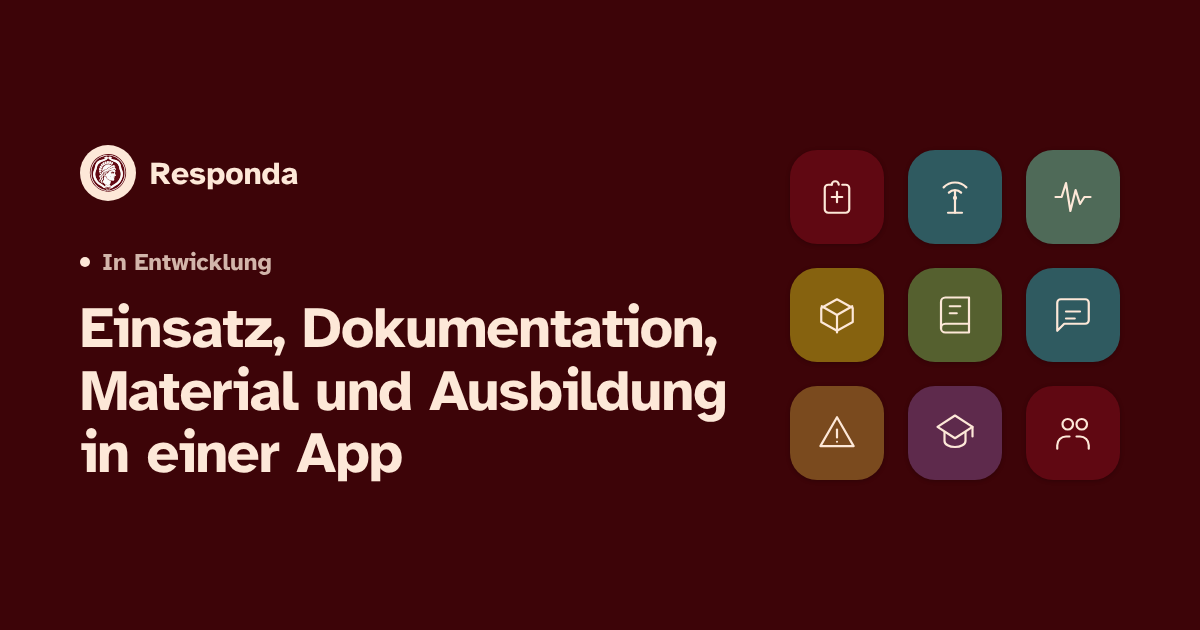
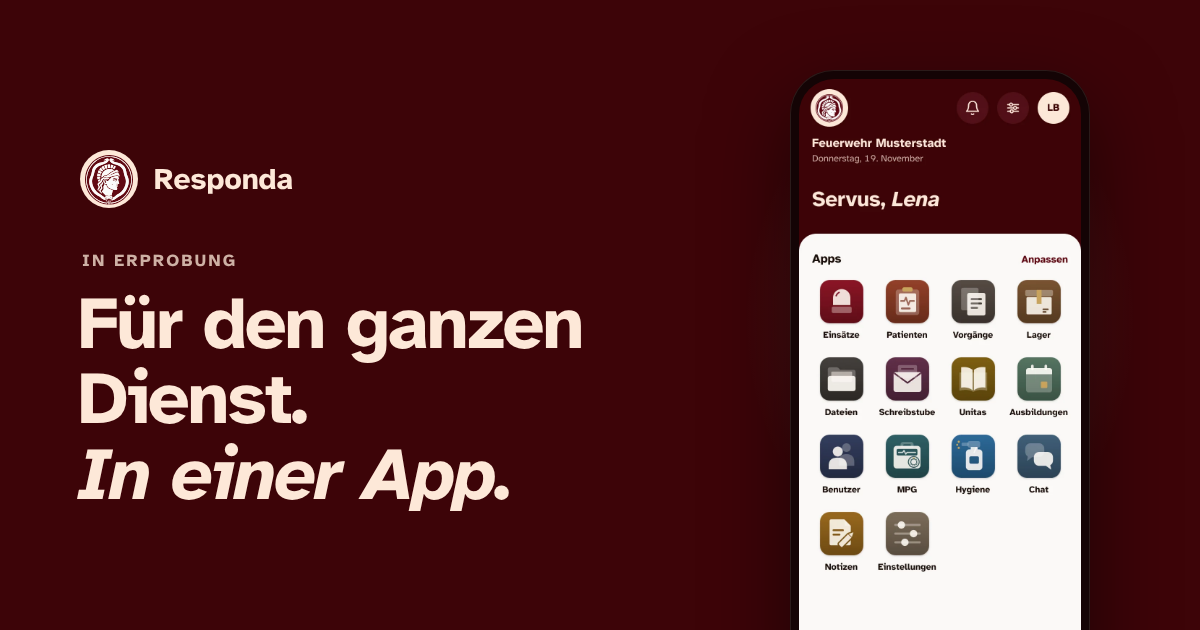
Website: Nachtrag aus der Durchsicht (Anker, Drehen, Querformat, Texte)
- Aufruf mit Anker (/#kontakt aus dem Menü der Unterseiten) landet an
  der Stelle statt oben
- Beim Drehen oder anderem Fenster bleibt die Stelle in der Szene; jede
  andere Größe misst neu (breit/schmal, Höhe)
- Quer und bei großem Zoom: Texte unter Leiste und Kapitelzeile, mit
  Abstand zur Kamera-Aussparung, sonst knapper; lange Wörter getrennt
- Fokus bleibt sichtbar unter der Leiste; die Bühne rollt nicht mehr
  intern; Felder der Unterseiten mit 16 px (kein Zoom beim Antippen)
- Texte richtiggestellt: Medizinprodukte (schwerer Defekt sperrt bis
  behoben und freigegeben), Funkloch, Speicherort
- Neues Vorschaubild beim Teilen (In Erprobung, erfundene Daten)
- Unitas und Entwurfsseite laden die Schrift nicht mehr bei Google

Claude-Session: https://claude.ai/code/session_01Q1UF8jxmgKZQgB564RnhHy

Changed region(s): [[0.6475, 0.0905, 0.9558, 1.0], [0.0617, 0.3921, 0.6167, 0.8143], [0.0617, 0.2111, 0.2467, 0.3317]]

diff --git a/src/pages/landing/stil.ts b/src/pages/landing/stil.ts
@@ -30,6 +30,10 @@ export const RS_CSS = `
 .rs .rs-hell :focus-visible{ outline-color: var(--rs-akzent); }
 .rs-innen{ max-width: 1120px; margin: 0 auto; padding: 0 max(20px, env(safe-area-inset-right)) 0 max(20px, env(safe-area-inset-left)); }
 .rs section[id]{ scroll-margin-top: calc(64px + env(safe-area-inset-top)); }
+/* Was den Fokus bekommt, bleibt sichtbar unter der klebenden Leiste (WCAG 2.4.11) */
+.rs-teil :is(a, button, input, textarea, select), .rs-fuss :is(a, button){ scroll-margin-top: calc(96px + env(safe-area-inset-top)); scroll-margin-bottom: 24px; }
+/* Lange Wörter (Patientendokumentation …) bei großem Zoom trennen statt abschneiden */
+.rs :is(h1, h2, h3, .rs-sz-titel, .rs-ueber, .rs-sz-kapitelname, .rs-sz-schlusssatz, .rs-satz, .rs-lead){ overflow-wrap: break-word; -webkit-hyphens: auto; hyphens: auto; }
 
 /* Maß für die Bildschirmhöhe (scroll.ts): nie fixed */
 .rs-mass{ position: absolute; top: 0; left: 0; width: 100%; height: 100vh; visibility: hidden; pointer-events: none; }
@@ -67,6 +71,7 @@ export const RS_CSS = `
 @media (min-width: 860px){ .rs-links{ display: flex; } }
 .rs-anmelden{ display: flex; align-items: center; min-height: 44px; padding: 0 10px; font-size: 14px; font-weight: 700; color: var(--rs-creme-2); border-radius: 10px; }
 .rs-anmelden:hover{ color: var(--rs-creme); }
+@media (max-width: 299px){ .rs-anmelden{ display: none; } }
 @media (min-width: 860px){ .rs-anmelden{ font-size: 15px; padding: 0 12px; } }
 
 /* Knöpfe */
@@ -103,7 +108,7 @@ export const RS_CSS = `
 @supports (height: 100svh){ .rs-szene{ height: calc(var(--n, 17) * 100svh); } }
 .rs-anker{ position: absolute; left: 0; width: 1px; height: 1px; pointer-events: none; top: calc(var(--ab, 1.86) * 100vh); }
 @supports (height: 100svh){ .rs-anker{ top: calc(var(--ab, 1.86) * 100svh); } }
-.rs-sz-bild{ position: sticky; top: 0; height: 100vh; height: 100svh; overflow: hidden; }
+.rs-sz-bild{ position: sticky; top: 0; height: 100vh; height: 100svh; overflow: hidden; overflow: clip; }
 .rs-sz-held{ position: absolute; inset: 0; z-index: 4; will-change: opacity, transform; }
 .rs-sz-held .rs-held{ padding-top: calc(env(safe-area-inset-top) + 64px + clamp(16px, 4.5vh, 56px)); }
 .rs-sz-held .rs-gross{ width: clamp(84px, 13vh, 150px); height: clamp(84px, 13vh, 150px); }
@@ -162,7 +167,10 @@ export const RS_CSS = `
 .rs-sz-text .rs-lead{ margin-top: 10px; font-size: 16px; }
 .rs-sz-text .rs-ueber{ margin-bottom: 10px; font-size: 12px; letter-spacing: 0.14em; }
 .rs-szene.knapp .rs-sz-text .rs-lead{ display: none; }
-.rs-szene.breit .rs-sz-texte{ top: 0; bottom: 0; left: max(20px, calc(50% - 540px)); right: auto; width: min(44vw, 500px); align-items: center; }
+.rs-szene.breit .rs-sz-texte{ top: calc(env(safe-area-inset-top) + 64px); bottom: 12px; left: max(20px, env(safe-area-inset-left), calc(50% - 540px)); right: auto; width: min(44vw, 500px); align-items: center; }
+@media (min-width: 900px) and (min-height: 560px){ .rs-szene.breit .rs-sz-texte{ top: calc(env(safe-area-inset-top) + 128px); } }
+.rs-szene.breit.knapp .rs-sz-text .rs-lead{ display: none; }
+.rs-szene.breit.knapp .rs-sz-titel{ font-size: clamp(22px, min(3.6vw, 7vh), 40px); }
 .rs-szene.breit .rs-sz-text{ align-self: center; }
 .rs-szene.breit .rs-sz-titel{ font-size: clamp(36px, 4.4vw, 56px); }
 .rs-szene.breit .rs-sz-text .rs-lead{ font-size: clamp(17px, 1.6vw, 20px); margin-top: 18px; }
@@ -170,15 +178,16 @@ export const RS_CSS = `
 .rs-neu{ margin-left: 12px; padding: 2px 7px; border-radius: 6px; box-shadow: inset 0 0 0 1px var(--rs-creme-3); color: var(--rs-creme); letter-spacing: 0.12em; }
 /* Kapitelmoment: großer Name mittig, das Handy tritt blass zurück */
 .rs-sz-kapitel{ position: absolute; inset: 0; z-index: 4; display: grid; place-content: center; text-align: center;
-  padding: calc(env(safe-area-inset-top) + 64px) 20px 0; opacity: 0; visibility: hidden; pointer-events: none; will-change: opacity, transform; }
+  padding: calc(env(safe-area-inset-top) + 64px) max(20px, env(safe-area-inset-right)) 0 max(20px, env(safe-area-inset-left)); opacity: 0; visibility: hidden; pointer-events: none; will-change: opacity, transform; }
 .rs-sz-kapitel .rs-vorzeile{ margin: 0; }
-.rs-sz-kapitelname{ margin: 10px 0 0; font-size: clamp(40px, min(10.5vw, 15vh), 128px); font-weight: 800; line-height: 0.98; letter-spacing: -0.03em; }
+.rs-sz-kapitelname{ margin: 10px 0 0; font-size: clamp(28px, min(10.5vw, 15vh), 128px); font-weight: 800; line-height: 0.98; letter-spacing: -0.03em; }
 .rs-sz-kapitelname em{ font-style: italic; color: var(--rs-creme); }
 .rs-sz-kapitelapps{ display: none; margin: 18px auto 0; max-width: 34ch; font-size: clamp(17px, 1.6vw, 19px); font-style: italic; color: var(--rs-creme-2); }
 .rs-szene.breit .rs-sz-kapitelapps{ display: block; }
+.rs-szene.breit.knapp .rs-sz-kapitelapps{ display: none; }
 /* Kapitelzeile: nur am Rechner, unter der Leiste auf der Achse der Texte */
-.rs-sz-kapitelzeile{ display: none; position: absolute; z-index: 5; top: calc(env(safe-area-inset-top) + 84px); left: max(20px, calc(50% - 540px)); gap: 20px; opacity: 0; visibility: hidden; }
-@media (min-width: 900px){ .rs-szene.breit .rs-sz-kapitelzeile{ display: flex; } }
+.rs-sz-kapitelzeile{ display: none; position: absolute; z-index: 5; top: calc(env(safe-area-inset-top) + 76px); left: max(20px, env(safe-area-inset-left), calc(50% - 540px)); gap: 20px; opacity: 0; visibility: hidden; }
+@media (min-width: 900px) and (min-height: 560px){ .rs-szene.breit .rs-sz-kapitelzeile{ display: flex; } }
 .rs-sz-kapitelzeile button{ position: relative; display: none; align-items: center; min-height: 44px; padding: 0; background: none; border: 0; cursor: pointer;
   font: inherit; font-size: 11px; font-weight: 700; letter-spacing: 0.14em; text-transform: uppercase; color: var(--rs-creme-3); }
 .rs-sz-kapitelzeile button[aria-current]{ display: flex; color: var(--rs-creme); }
@@ -191,8 +200,8 @@ export const RS_CSS = `
 }
 /* Schluss: der Satz des Einstiegs, allein auf Rot */
 .rs-sz-schluss{ position: absolute; inset: 0; z-index: 4; display: grid; place-content: center; justify-items: center; text-align: center;
-  padding: calc(env(safe-area-inset-top) + 64px) 20px 0; pointer-events: none; }
-.rs-sz-schlusssatz{ margin: 0; font-size: clamp(40px, min(7vw, 11vh), 96px); font-weight: 800; line-height: 1.02; letter-spacing: -0.03em; }
+  padding: calc(env(safe-area-inset-top) + 64px) max(20px, env(safe-area-inset-right)) 0 max(20px, env(safe-area-inset-left)); pointer-events: none; }
+.rs-sz-schlusssatz{ margin: 0; font-size: clamp(28px, min(7vw, 11vh), 96px); font-weight: 800; line-height: 1.02; letter-spacing: -0.03em; }
 .rs-sz-schlusssatz .z1, .rs-sz-schlusssatz .z2{ display: block; opacity: 0; }
 .rs-sz-schlusssatz em{ font-style: italic; color: var(--rs-creme); }
 .rs-sz-schluss .rs-knopf{ margin-top: clamp(24px, 4vh, 40px); pointer-events: auto; opacity: 0; visibility: hidden; }

diff --git a/src/pages/landing/ablauf.ts b/src/pages/landing/ablauf.ts
@@ -27,7 +27,7 @@ export interface Modul {
  *  Einsätze und Ausbildungen (hebt die Festlegung vom 20.11.2026 auf). */
 export const MODULE: Modul[] = [
   { name: 'Responda', kapitel: '', titel: ['Alles an einem Ort.', 'Auf dem Handy.'], laenge: 0.6, bilder: ['hub'],
-    text: 'Jede Einsatzkraft sieht die Apps, die sie braucht. Im Browser, ohne Installation. Was ihr eingebt, liegt auf einem eigenen Server in Nürnberg.' },
+    text: 'Jede Einsatzkraft sieht die Apps, die sie braucht. Im Browser, ohne Installation. Gespeichert wird auf einem eigenen Server in Nürnberg.' },
   { name: 'Einsätze', kapitel: 'Im Einsatz', titel: ['Der Einsatz', 'hält alles zusammen.'], laenge: 0.8, bilder: ['einsaetze'],
     text: 'Protokolle und Produktausgaben mit derselben Einsatznummer gehören von selbst dazu, dazu Personen und beteiligte Organisationen.' },
   { name: 'Patientendokumentation', kapitel: 'Im Einsatz', titel: ['Das Protokoll entsteht', 'beim Patienten.'], laenge: 0.8, bilder: ['protokoll'],
@@ -36,8 +36,8 @@ export const MODULE: Modul[] = [
     text: 'Prüfen, freigeben und archivieren, für die Leitung und die Verantwortlichen.' },
   { name: 'Vorgänge und CIRS', kapitel: 'Im Einsatz', titel: ['Formulare', 'statt Zettel.'], laenge: 0.5, bilder: ['vorgaenge'],
     text: 'Eigene Formulare und Anträge, CIRS-Meldungen auf Wunsch anonym, auch über Link oder QR-Code.' },
-  { name: 'Medizinprodukte', kapitel: 'Material', titel: ['Nicht einsatzbereit', 'heißt gesperrt.'], laenge: 0.8, bilder: ['mpg'],
-    text: 'Prüfen, STK und MTK im Blick, Defekte melden, auch über QR-Code. Ein schwerer Defekt sperrt das Gerät, bis es geprüft ist.' },
+  { name: 'Medizinprodukte', kapitel: 'Material', titel: ['Schwerer Defekt', 'heißt gesperrt.'], laenge: 0.8, bilder: ['mpg'],
+    text: 'Prüfen, STK und MTK im Blick, Defekte melden, auch über QR-Code. Ein schwerer Defekt sperrt das Gerät, bis er behoben und das Gerät freigegeben ist.' },
   { name: 'Hygiene', kapitel: 'Material', neu: true, titel: ['Desinfiziert.', 'Und nachgewiesen.'], laenge: 1.0, bilder: ['hygiene', 'hygiene-checkliste'],
     text: 'Fahrzeuge, Räume und Geräte nach Plan oder aus Anlass. Die Checkliste passt zum Fahrzeug, der Nachweis steht.' },
   { name: 'Lager', kapitel: 'Material', titel: ['Auffallen,', 'bevor es fehlt.'], laenge: 0.5, bilder: ['lager'],
@@ -270,9 +270,9 @@ export function zeileHell(anteil: number): number { return 0.2 + 0.8 * (1 - weic
 
 /** Grundsätze und „Für wen“ (Texte hier, damit die Prüffälle sie mit lesen) */
 export const GRUNDSAETZE: { name: [string, string]; text: string }[] = [
-  { name: ['In', 'Nürnberg.'], text: 'Was ihr eingebt, liegt auf einem eigenen Server in Nürnberg.' },
+  { name: ['In', 'Nürnberg.'], text: 'Gespeichert wird auf einem eigenen Server in Nürnberg.' },
   { name: ['Im', 'Browser.'], text: 'Ohne Installation auf Handy, Tablet und PC.' },
-  { name: ['Im', 'Funkloch.'], text: 'Was ohne Netz abgeschickt wird, geht raus, sobald Netz da ist.' },
+  { name: ['Im', 'Funkloch.'], text: 'Protokolle, Produktausgaben und Meldungen, die ohne Netz abgeschickt werden, gehen raus, sobald Netz da ist.' },
   { name: ['Patientendaten', 'nie im Push.'], text: 'Benachrichtigungen nennen nie Patientendaten.' },
   { name: ['In', 'eurer Hand.'], text: 'Jede Organisation legt Rollen, Rechte und Formulare selbst fest.' },
 ]

diff --git a/src/pages/landing/Startseite.tsx b/src/pages/landing/Startseite.tsx
@@ -10,7 +10,7 @@
 // Ablauf und Texte der Szene: ./ablauf.ts (mit Prüffällen), Scroll: ./scroll.ts, Stile: ./stil.ts.
 // Die Bilder der App entstehen mit erfundenen Testdaten (docs/entwuerfe/website/aufnahme.mjs).
 
-import { Fragment, useEffect, useRef, useState } from 'react'
+import { Fragment, useEffect, useLayoutEffect, useRef, useState } from 'react'
 import { useStatusleiste } from '../../hooks/useStatusleiste'
 import { API_URL, APP_URL, DEF_NAV } from '../../lib/landingSchema'
 import { RS_CSS } from './stil'
@@ -66,6 +66,10 @@ function szeneMaler(root: HTMLElement, ruhig: boolean, anstossen: () => void): T
         if (m.breit) {
           hh = Math.min(m.H * 0.8, 760, m.H - navH - 24)
           oben = Math.max((m.H - hh) / 2, navH + 12)
+          // Texte stehen unter Leiste (und Kapitelzeile); passen sie nicht, ohne Erklärzeile und kleiner (.knapp)
+          el.classList.remove('knapp')
+          const platz = () => { const tb = texteEl?.getBoundingClientRect(); return tb ? tb.height : m.H }
+          if (Math.max(0, ...texte.map(t => t.offsetHeight)) > platz() - 16) el.classList.add('knapp')
         } else {
           // Am Telefon: Handy oben, darunter der Text; auf kleinen Bildschirmen ohne Erklärzeile (.knapp)
           oben = Math.max(navH + 12, m.H * 0.1)
@@ -79,7 +83,8 @@ function szeneMaler(root: HTMLElement, ruhig: boolean, anstossen: () => void): T
           el.classList.remove('knapp')
           hh = rechne()
           if (hh < 260) { el.classList.add('knapp'); hh = rechne() }
-          hh = Math.max(220, hh)
+          // Untergrenze klein genug, dass das Handy nie in den Text ragt (geteilter Bildschirm, großer Zoom)
+          hh = Math.max(140, hh)
         }
         const hw = (hh - 20) * 0.4627 + 20
         setz(el, '--hh', `${hh}px`); setz(el, '--hw', `${hw}px`); setz(el, '--oben', `${oben}px`)
@@ -89,6 +94,13 @@ function szeneMaler(root: HTMLElement, ruhig: boolean, anstossen: () => void): T
       }
       anfang = el.getBoundingClientRect().top + window.scrollY
     },
+
+    // Stelle in der Szene (Bildschirmhöhen) beim Drehen halten
+    lageVor(y: number, m: Mass) {
+      const sv = (y - anfang) / m.H
+      return sv > 0 && sv < GESAMT + 0.5 ? sv : null
+    },
+    lageNach(sv: number, m: Mass) { return anfang + sv * m.H },
 
     malen(y: number, m: Mass) {
       const sv = Math.min(Math.max(0, (y - anfang) / m.H), GESAMT)
@@ -364,6 +376,15 @@ export default function Startseite({ email, unterseiten, onLegal }: {
   }, [])
   useScrollMaler(rootRef, (anstossen) => [szeneMaler(rootRef.current!, ruhig, anstossen), zeilenMaler(rootRef.current!, ruhig)], [ruhig])
   useEinblenden(rootRef)
+  // Aufruf mit Anker (/#kontakt aus dem Menü der Unterseiten, Links von außen): Beim Laden gab es das Ziel
+  // noch nicht, und der Rücksprung nach oben (ObenBeginnen) liefe danach. Jetzt steht die Seite: hinrollen.
+  useLayoutEffect(() => {
+    const anker = window.location.hash.slice(1)
+    if (!anker) return
+    let ziel: HTMLElement | null = null
+    try { ziel = document.getElementById(decodeURIComponent(anker)) } catch { ziel = null }
+    ziel?.scrollIntoView()
+  }, [])
   useVorladen()
 
   const links = [...DEF_NAV.filter(l => l.href !== '/#kontakt').map(l => ({ ...l, href: l.href.replace(/^\//, '') })), ...unterseiten]

diff --git a/src/pages/landing/scroll.ts b/src/pages/landing/scroll.ts
@@ -8,10 +8,14 @@ import { useLayoutEffect, type RefObject } from 'react'
 export interface Mass { H: number; vw: number; breit: boolean }
 
 export interface Teilnehmer {
-  /** Größen und Lagen lesen (Layout lesen ist hier erlaubt). voll: Breite oder Höhe deutlich anders */
+  /** Größen und Lagen lesen (Layout lesen ist hier erlaubt). voll: Breite, Höhe oder breit/schmal anders */
   messen: (m: Mass, voll: boolean) => void
   /** Nur schreiben, nie Layout lesen */
   malen: (y: number, m: Mass) => void
+  /** Vor dem Messen bei anderer Größe: die Lage merken (z. B. Bildschirmhöhen in der Szene), sonst null */
+  lageVor?: (y: number, m: Mass) => number | null
+  /** Nach dem Messen: wohin rollen, damit dieselbe Stelle im Bild bleibt (Drehen, anderes Fenster) */
+  lageNach?: (lage: number, m: Mass) => number | null
 }
 
 /** Schreibt nur, was sich geändert hat (Zahlen auf drei Stellen gerundet) */
@@ -42,9 +46,19 @@ export function useScrollMaler(rootRef: RefObject<HTMLElement | null>, teilnehme
     const messen = () => {
       const H = massEl.getBoundingClientRect().height || massEl.offsetHeight || 1
       const vw = root.clientWidth || document.documentElement.clientWidth
-      const voll = vw !== m.vw || m.H === 0 || Math.abs(H - m.H) / m.H > 0.25
-      m = { H, vw, breit: vw >= 900 || vw > 1.2 * H }
+      const breit = vw >= 900 || vw > 1.2 * H
+      // Jede andere Größe misst voll neu (H kommt aus 100svh und ändert sich am iPhone nicht mit den Leisten)
+      const voll = vw !== m.vw || H !== m.H || breit !== m.breit
+      // Beim Drehen oder anderem Fenster dieselbe Stelle halten (scrollY in px bliebe sonst gleich)
+      const alt = m, y = window.scrollY
+      const lagen = alt.H && voll ? tn.map(t => t.lageVor?.(y, alt) ?? null) : []
+      m = { H, vw, breit }
       for (const t of tn) t.messen(m, voll)
+      for (let i = 0; i < lagen.length; i++) {
+        const l = lagen[i]
+        const ziel = l === null ? null : tn[i].lageNach?.(l, m) ?? null
+        if (ziel !== null && Math.abs(ziel - window.scrollY) > 1) { window.scrollTo(0, ziel); break }
+      }
     }
     messen(); malen()
     let messenGeplant = 0

diff --git a/public/design-konzept.html b/public/design-konzept.html
@@ -4,9 +4,12 @@
 <meta charset="UTF-8">
 <meta name="viewport" content="width=device-width, initial-scale=1.0">
 <title>Responda — Designkonzept</title>
-<link rel="preconnect" href="https://fonts.googleapis.com">
-<link href="https://fonts.googleapis.com/css2?family=Atkinson+Hyperlegible:ital,wght@0,400;0,700;1,400;1,700&display=swap" rel="stylesheet">
 <style>
+  /* Schrift aus der App (public/fonts), kein Abruf bei Google */
+  @font-face { font-family: 'Atkinson Hyperlegible'; font-style: normal; font-weight: 400; font-display: swap; src: url('/fonts/atkinson-400.woff2') format('woff2'); }
+  @font-face { font-family: 'Atkinson Hyperlegible'; font-style: italic; font-weight: 400; font-display: swap; src: url('/fonts/atkinson-400-italic.woff2') format('woff2'); }
+  @font-face { font-family: 'Atkinson Hyperlegible'; font-style: normal; font-weight: 700; font-display: swap; src: url('/fonts/atkinson-700.woff2') format('woff2'); }
+  @font-face { font-family: 'Atkinson Hyperlegible'; font-style: italic; font-weight: 700; font-display: swap; src: url('/fonts/atkinson-700-italic.woff2') format('woff2'); }
   *, *::before, *::after { box-sizing: border-box; margin: 0; padding: 0; }
 
   :root {

diff --git a/src/lib/landingSchema.ts b/src/lib/landingSchema.ts
@@ -246,7 +246,7 @@ export function buildCss(d: Design): string {
   .lp .cform{display:flex;flex-direction:column;gap:14px}
   .lp .fg{display:flex;flex-direction:column;gap:6px}
   .lp .flabel{font-size:0.95rem;font-weight:700;color:${d.text}}
-  .lp .finput,.lp .ftextarea{padding:12px 14px;border-radius:10px;border:1.5px solid rgba(96,8,18,0.10);background:${d.bg};color:${d.text};font-size:0.95rem;font-family:inherit;transition:border-color 0.2s;outline:none;-webkit-appearance:none;width:100%}
+  .lp .finput,.lp .ftextarea{padding:12px 14px;border-radius:10px;border:1.5px solid rgba(96,8,18,0.10);background:${d.bg};color:${d.text};font-size:16px;font-family:inherit;transition:border-color 0.2s;outline:none;-webkit-appearance:none;width:100%}
   .lp .finput:focus,.lp .ftextarea:focus{border-color:${d.primary}}
   .lp .ftextarea{min-height:120px;resize:vertical}
   .lp .finput::placeholder,.lp .ftextarea::placeholder{color:${d.gray};opacity:0.6}

diff --git a/src/components/LandingRenderer.tsx b/src/components/LandingRenderer.tsx
@@ -113,7 +113,7 @@ function SectionView({ s, d, preview }: { s: Section; d: Design; preview?: boole
     if (!preview) return null
     return (
       <section {...common}>
-        <div className="wrap"><p className="sub">Preis-Abschnitt: wird auf der Website nicht angezeigt, solange Responda in Entwicklung ist.</p></div>
+        <div className="wrap"><p className="sub">Preis-Abschnitt: wird auf der Website nicht angezeigt, solange Responda in Erprobung ist.</p></div>
       </section>
     )
   }

diff --git a/src/pages/Unitas.tsx b/src/pages/Unitas.tsx
@@ -1095,7 +1095,6 @@ export default function Unitas() {
       )}
 
       <style>{`
-        @import url('https://fonts.googleapis.com/css2?family=Atkinson+Hyperlegible:ital,wght@0,400;0,700;1,400;1,700&display=swap');
         @keyframes slideInUp {
           from { transform: translateX(-50%) translateY(20px); opacity: 0; }
           to   { transform: translateX(-50%) translateY(0);    opacity: 1; }
